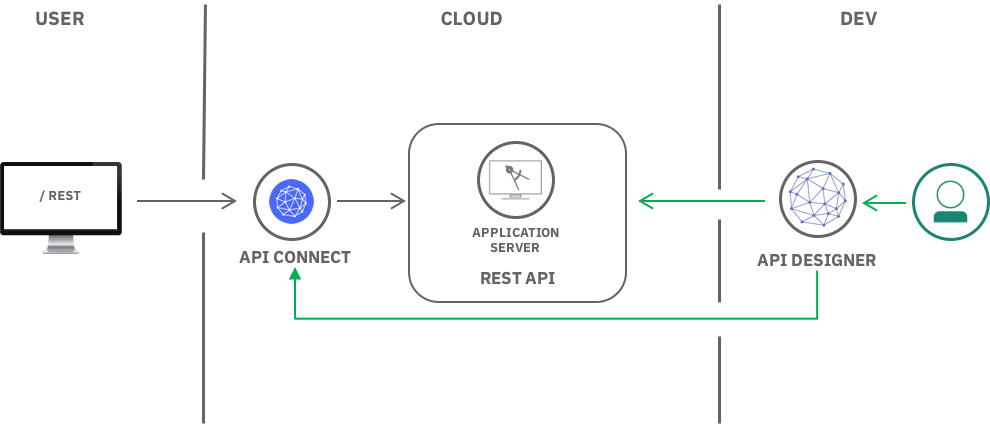
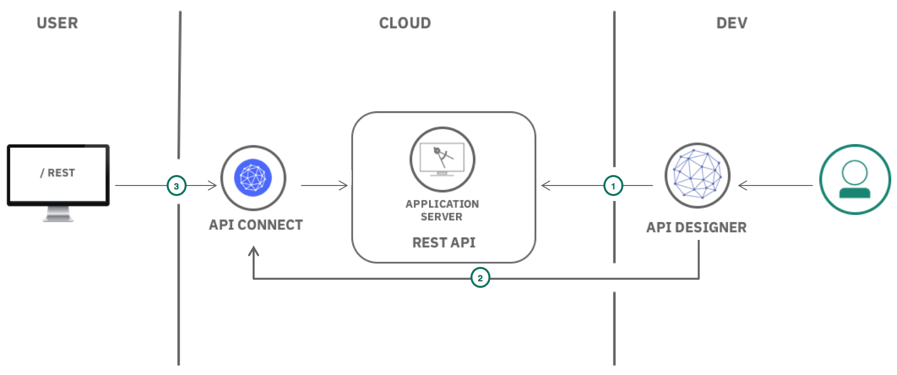
best practices updates

diff --git a/create-manage-secure-apis.md b/create-manage-secure-apis.md
@@ -1,7 +1,7 @@
 ---
 copyright:
   years: 2017, 2018
-lastupdated: "2017-11-30"
+lastupdated: "2018-04-23"
 
 ---
 
@@ -17,76 +17,89 @@ lastupdated: "2017-11-30"
 {:pre: .pre}
 
 # Create, secure and manage REST APIs
-This tutorial demonstrates how to create a new REST API using the LoopBack Node.js API framework and  then add management, visibility, security and rate limiting to your API using the **API Connect** service on IBM Cloud.
+
+This tutorial demonstrates how to create REST APIs using the LoopBack Node.js API Framework. With Loopback you can quickly create REST APIs that connect devices and browsers to data and services. Then add management, visibility, security and rate limiting to your API using {{site.data.keyword.apiconnect_long}}.
 {:shortdesc}
 
-![](images/solution13/Architecture.png)
-
 ## Objectives
-* Create a REST API in Node.js
-* Deploy Node.js application
-* Import API Specification to API Connect
-* Secure and Manage API
 
-## Products
-This tutorial uses the following products:
+* Build a REST API with little to no coding
+* Publish your API on {{site.data.keyword.Bluemix_notm}} to reach developers
+* Bring existing APIs into {{site.data.keyword.apiconnect_short}}
+* Securely expose and control access to systems of record
+
+## Services used
+
+This tutorial uses the following runtimes and services:
+
 * [Loopback](https://loopback.io/)
-* [API Connect](https://console.bluemix.net/docs/services/apiconnect/index.html)
+* [{{site.data.keyword.apiconnect_short}}](https://console.bluemix.net/docs/services/apiconnect/index.html)
 * [SDK for Node.js](https://console.bluemix.net/catalog/starters/sdk-for-nodejs) Cloud Foundry App
 
+## Architecture
+
+![Architecture](images/solution13/Architecture.png)
+
+1. Developer defines RESTful API
+2. Developer publishes API to {{site.data.keyword.apiconnect_long}}
+3. Users and applications consume API
+
 ## Before you begin
-Download and install [Node.js](https://nodejs.org/en/download/)
+
+* Download and install [Node.js](https://nodejs.org/en/download/)
 
 ## Create a REST API in Node.js
+
 {: #create_api}
-In this section, you will create an API in Node.js using the [LoopBack framework](https://loopback.io/doc/index.html). LoopBack is a highly-extensible, open-source Node.js framework that enables you to create dynamic end-to-end REST APIs with little or no coding.
+In this section, you will create an API in Node.js using [LoopBack](https://loopback.io/doc/index.html). LoopBack is a highly-extensible, open-source Node.js framework that enables you to create dynamic end-to-end REST APIs with little or no coding.
 
 ### Create application
-1.  Install IBM API Connect command line tool.
-  ```bash 
+
+1. Install the {{site.data.keyword.apiconnect_short}} command line tool.
+  ```bash
   npm install -g apiconnect
   ```
 2. Enter the following command to create the application.
-  ```bash 
+  ```bash
   apic loopback
   ```
-3.  At the prompt, enter `entries-api` as the project name and press **Enter**.
-
+3. At the prompt, enter `entries-api` as the project name and press `Enter`.
   ```sh
   ? What's the name of your application? entries-api
   ```
-4.  Press **Enter** to use a directory with the same name as the project.
-5.  Choose the **current** version of LoopBack.
-6.  Select **empty-server** for the kind of application.
+4. Press `Enter` to use a directory with the same name as the project.
+5. Choose the **current** version of LoopBack.
+6. Select **empty-server** for the kind of application.
   ```bash
     ? What kind of application do you have in mind? (Use arrow keys)
     ? empty-server (An empty LoopBack API, without any configured models or datasources) 
       hello-world (A project containing a basic working example, including a memory database) 
       notes (A project containing a basic working example, including a memory database)
   ```
-  ![apic_loopback](images/solution13/apic_loopback.png)
-
+  ![APIC Loopback scaffolding](images/solution13/apic_loopback.png)
 
 ### Add a data source
-Adding a data source allows you to configure where the data should be persisted. Various types of databases are supported, but for the sake of simplicity, we will use an in-memory data store.
+
+Data sources represent backend systems such as databases, external REST APIs, SOAP web services and storage services. Data sources typically provide create, retrieve, update and delete (CRUD) functions. While Loopback supports many types of [data sources](http://loopback.io/doc/en/lb3/Connectors-reference.html), for the sake of simplicity, you will use an in-memory data store with your API.
 
 1. Change directory to the new project and launch the API Designer.
   ```bash
   cd entries-api
   apic edit
   ```
-2. Click on **Data Sources > Add**, A New LoopBack Data Source window opens.
+2. Click on **Data Sources > Add**. A New LoopBack Data Source window opens.
 3. Enter `entriesDS` in the **Name** text field and click **New**.
-4. Use **in-memory db** for the **Connector** setting. 
+4. Use **in-memory db** for the **Connector** setting.
 5. Click **All Data Sources** on the top left. The data source will appear in the list of data sources.
 
    The editor automatically updates the server/datasources.json file with settings for the new data source.
    {:tip}
 
-![apic_loopback](images/solution13/datastore.png)
+![API Designer datasources](images/solution13/datastore.png)
 
 ### Add a model
-Models allow you to define and control the structure of data and schema of your API.
+
+A model is a JavaScript object with both Node and REST APIs that represents data in backend systems. Models are connected to these systems via data sources. In this section, you will define the structure of your data and connect it to the data source previously created.
 
 1. Click **Models > Add** and enter `entry` in the **Name** text field and click **New**
   ![](images/solution13/models-icon.png).
@@ -98,16 +111,16 @@ Models allow you to define and control the structure of data and schema of your 
 7. Click the **Save** icon ![](images/solution13/save-icon.png) to save your changes.
 8. Click **All Models** to finish editing the model.
 
-![apic_loopback](images/solution13/models.png)
-
+![Model generator](images/solution13/models.png)
 
 ## Test your LoopBack application
+
 In this section, you will start a local instance of your Loopback application and test the API by inserting and querying data using the API Designer.
 
-1. Start the local server by clicking **Start** icon ![](images/solution13/test-icon.png)  at the bottom of the screen and wait for the **Running** message:
+1. Start the local server by clicking **Start** icon ![](images/solution13/test-icon.png)  at the bottom of the screen and wait for the **Running** message.
   ![](images/solution13/start-server-1.png).
 2. Click the **Explore** icon ![](images/solution13/explore-icon.png) to see the API Designer Explore tool. The sidebar shows all of the REST operations for the LoopBack models in the API.
-3. Click the operation **entry.create** in the left pane to display the endpoint. The center pane displays summary information about the endpoint, including its parameters, security, model instance data, and response codes. The right pane provides template code to call the endpoint using the cURL command, and languages such as Ruby, Python, Java, and Node.
+3. Click the operation **entry.create** in the left pane to display the endpoint. The center pane displays summary information about the endpoint, including its parameters, security, model instance data and response codes. The right pane provides template code to call the endpoint using the cURL command, and languages such as Ruby, Python, Java and Node.
 4. On the right pane click **Try it**. Scroll down to **Parameters** and enter the following in **data**
   ```
   {
@@ -117,12 +130,12 @@ In this section, you will start a local instance of your Loopback application an
   }
   ```
 5. Click **Call operation**.
-  ![apic_loopback](images/solution13/data_entry_1.png)
-6. Confirm successful POST by checking for **Response Code: 200 OK**. 
+  ![Testing an API from API Designer](images/solution13/data_entry_1.png)
+6. Confirm successful POST by checking for **Response Code: 200 OK**.
 
   **Note:** If you see an error message due to an untrusted certificate for localhost, click the link provided in the error message in API Designer Explore tool to accept the certificate, then proceed to visit the URL in your web browser. The exact procedure depends on the web browser you are using. If you load the REST endpoints directly in your browser, you will see the message: {"name":"PreFlowError","message":"unable to process the request"}. Then, attempt the **Call operation** again.
 
-7. Add another entry using a curl command. Confirm the port matches your Application port
+7. Add another entry using a curl command. Confirm the port matches your Application port.
   ```bash
   curl --request POST \
   --url https://localhost:4002/api/entries \
@@ -133,84 +146,82 @@ In this section, you will start a local instance of your Loopback application an
   --data '{"name":"John Doe","email":"johndoe@mycomany.com","comment":"John likes Orange"}' \
   --insecure
   ```
-
-8. Click **entry.find** >**Try It**(on the right pane) > **Call operation**  to display all entries. You should see JSON for **Jane Doe** and **John Doe**.
+8. Click **entry.find** > **Try It** (on the right pane) > **Call operation**  to display all entries. You should see JSON for **Jane Doe** and **John Doe**.
   ![entry_find](images/solution13/find_response.png)
 
 You can also start the application manually by issuing the `npm start` command. Your REST API will be available at http://localhost:3000/api/entries
 {:tip}
 
-## Create API Connect service
-To prepare for the next steps, you need to create an **API Connect** service on IBM Cloud which will act as the gateway for your API. This service on IBM Cloud will be used to manage,secure and rate limit your API.
+## Create {{site.data.keyword.apiconnect_short}} service
 
-1. Launch [IBM Cloud](https://console.bluemix.net) Dashboard
-2. Navigate to **Catalog > APIs > API Connect** and click **Create**
-  ![entry_find](images/solution13/api_connect.png)
+To prepare for the next steps, you need to create an **{{site.data.keyword.apiconnect_short}}** service on {{site.data.keyword.Bluemix_notm}} which will act as the gateway for your API. This service on {{site.data.keyword.Bluemix_notm}} will be used to manage, secure and rate limit your API.
 
-## Publish API to IBM Cloud
+1. Launch {{site.data.keyword.Bluemix_notm}} [Dashboard](https://console.bluemix.net/dashboard).
+2. Navigate to **Catalog > APIs > {{site.data.keyword.apiconnect_short}}** and click **Create**.
+  ![Catalog page](images/solution13/api_connect.png)
+
+## Publish API to {{site.data.keyword.Bluemix_notm}}
+
 {: #publish}
+You will use the API Designer to deploy your application to {{site.data.keyword.Bluemix_notm}} as a Cloud Foundry application and also publish your API definition to **{{site.data.keyword.apiconnect_short}}**. The API Designer is your local toolkit. If you closed it, relaunch it with `apic edit` from the project directory.
 
-You will use the API Designer to deploy your application to IBM Cloud as a Cloud Foundry application and also publish your API definition to **API Connect**. The API Designer is your local toolkit. If you closed it, you can relaunch with `apic edit` command from the project directory.
-
-You can also deploy the application manually using the `bx cf push` command. However, it will not be secured. To [import the API](https://console.bluemix.net/docs/services/apiconnect/tutorials/tut_rest_landing.html#tut_rest_landing) into API Connect, use the OpenAPI definition file is available in the `definitions` folder. Deploying using the API Designer secures the application and imports the definition automatically. {:tip}
+You can also deploy the application manually using the `bx cf push` command; however, it will not be secured. To [import the API](https://console.bluemix.net/docs/services/apiconnect/tutorials/tut_rest_landing.html#tut_rest_landing) into {{site.data.keyword.apiconnect_short}}, use the OpenAPI definition file is available in the `definitions` folder. Deploying using the API Designer secures the application and imports the definition automatically. {:tip}
 
 1. Back in the API Designer, click **Publish > Add and Manage Targets > Add IBM Bluemix target**.
 2. Select the **Region** and **Organization** that you want to publish to.
 3. Select the **Sandbox** Catalog and click **Next**.
-4. Enter `entries-api-application` under **Type a new application name** and click **+**
+4. Enter `entries-api-application` under **Type a new application name** and click **+**.
 5. Click **entries-api-application** in the list and click **Save**.
 6. Click on the **Menu** icon on the left top most corner > **Projects** > **entries-api** in the list.
-7. In the API Designer UI, click **APIs > entries-api > Assemble**
+7. In the API Designer UI, click **APIs > entries-api > Assemble**.
 8. In the Assembly editor, click the **Filter policies** icon.
 9. Select **DataPower Gateway policies** and click **Save**.
 10. Click **Publish** on the top bar and select your target. Select **Publish application** and Stage or Publish Products > Select **Specific products** > **entries-api**.
-11. Click **Publish** and wait 5 minutes for the application to finish publishing.
-   ![publish](images/solution13/publish.png)
+11. Click **Publish** and wait for the application to finish publishing.
+   ![Publishing dialog](images/solution13/publish.png)
 
    You can republish or stage your application anytime by clicking on **publish** anytime.
    {:tip}
 
-The API application is now published to IBM Cloud as a Cloud Foundry application. You can see it by looking at Cloud Foundry applications under [IBM Cloud](https://console.bluemix.net) Dashboard. However, direct access using the URL is not possible as the application is protected.
+The API application is now published to {{site.data.keyword.Bluemix_notm}} as a Cloud Foundry application. You can see it by looking at Cloud Foundry applications under {{site.data.keyword.Bluemix_notm}} [Dashboard](https://console.bluemix.net/dashboard), but direct access using the URL is not possible as the application is protected.
 
 ## API Gateway
-Until now, you have been designing and testing your API locally. Next, you will use the **API Connect** service to test your deployed API on IBM Cloud.
 
-1. Launch [IBM Cloud](https://console.bluemix.net) Dashboard
-2. Find and select your **API Connect** service under **Cloud Foundry Services**
-3. Click on **Explore** and select **Sandbox**
-4. Click on **entry.create**
-5. On the right pane, click **Try it**. Scroll down to **Parameters** and enter the following in **data**
-  ```
+Until now, you have been designing and testing your API locally. In this section, you will use {{site.data.keyword.apiconnect_short}} to test your deployed API on {{site.data.keyword.Bluemix_notm}}.
+
+1. Launch the {{site.data.keyword.Bluemix_notm}} [Dashboard](https://console.bluemix.net/dashboard) page.
+2. Find and select your **{{site.data.keyword.apiconnect_short}}** service under **Cloud Foundry Services**.
+3. Click on **Explore** and select **Sandbox**.
+4. Click on **entry.create**.
+5. On the right pane, click **Try it**. Scroll down to **Parameters** and enter the following in **data**. A 200 response should display.
+  ```javascript
   {
     "name": "Cloud User",
     "email": "cloud@mycompany.com",
     "comment": "Entry on the cloud!"
   }
   ```
-  A 200 response should displayed.
 
 ![gateway](images/solution13/gateway.png)
 
-Your managed and secure API URL is displayed next to each operation and it should look like 
-```
-https://us.apiconnect.ibmcloud.com/orgs/ORG-SPACE/catalogs/sb/api/entries
-```
+Your managed and secure API URL is displayed next to each operation and it should look like `https://us.apiconnect.ibmcloud.com/orgs/ORG-SPACE/catalogs/sb/api/entries`.
+{: tip}
+
 ## Rate Limiting
-Setting rate limits enables you to manage the network traffic for your APIs and for specific operations within your APIs. A rate limit is the maximum number of calls you want to allow in a particular time interval.
+
+Setting rate limits enables you to manage the network traffic for your APIs and for specific operations within your APIs. A rate limit is the maximum number of calls allowed in a particular time interval.
 
 1. Back in the API Designer, click **Products > entries-api**.
-2. Select **Default Plan** on the left
-3. Expand **Default Plan** and scroll down to **Rate limits** field
-4. Set fields to **10** calls / **1** **Minute**
+2. Select **Default Plan** on the left.
+3. Expand **Default Plan** and scroll down to **Rate limits** field.
+4. Set fields to **10** calls / **1** **Minute**.
 5. Select **Enforce hard limit** and click **Save** icon.
-  ![rate_limit](images/solution13/rate_limit.png)
-6. Follow steps under [Publish API to IBM Cloud](#publish) section to re-publish your API
+  ![Rate limit page](images/solution13/rate_limit.png)
+6. Follow steps under [Publish API to {{site.data.keyword.Bluemix_notm}}](#publish) section to re-publish your API.
 
 Your API is now rate limited to 10 requests per minute. See more info about [Setting up rate limits](https://console.bluemix.net/docs/services/apiconnect/tutorials/tut_rate_limit.html#setting-up-rate-limits) or explore the API Designer to see all the management features available.
 
-
-## Related information
+## Related content
 
 * [Loopback Documentation](https://loopback.io/doc/index.html)
-* [Getting started with the IBM Cloud API Connect service](https://console.bluemix.net/docs/services/apiconnect/index.html#index)
-
+* [Getting started with {{site.data.keyword.apiconnect_long}}](https://console.bluemix.net/docs/services/apiconnect/index.html#index)
